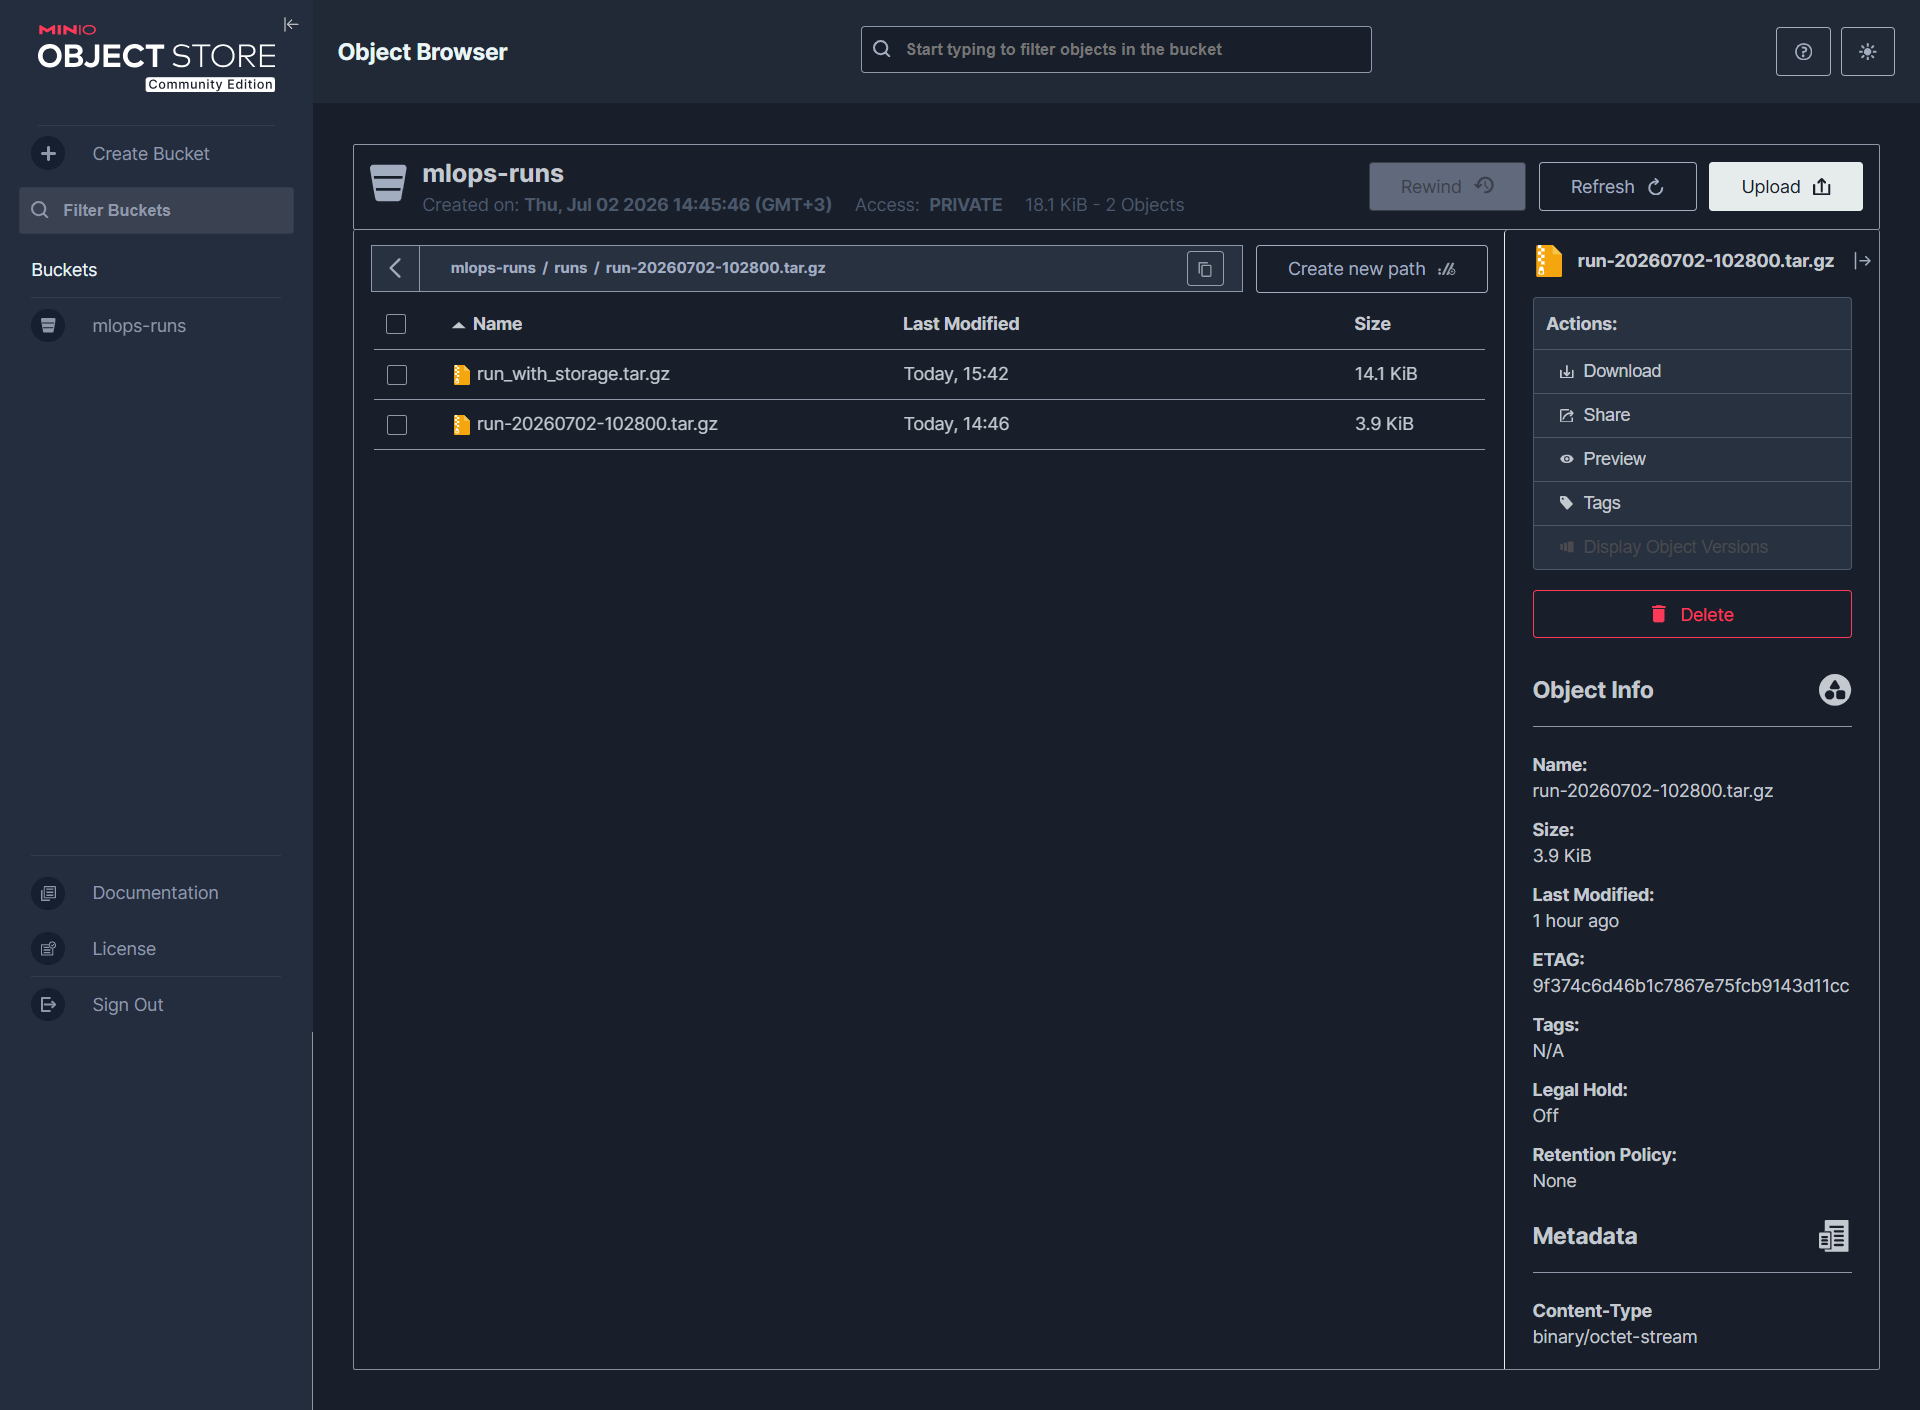
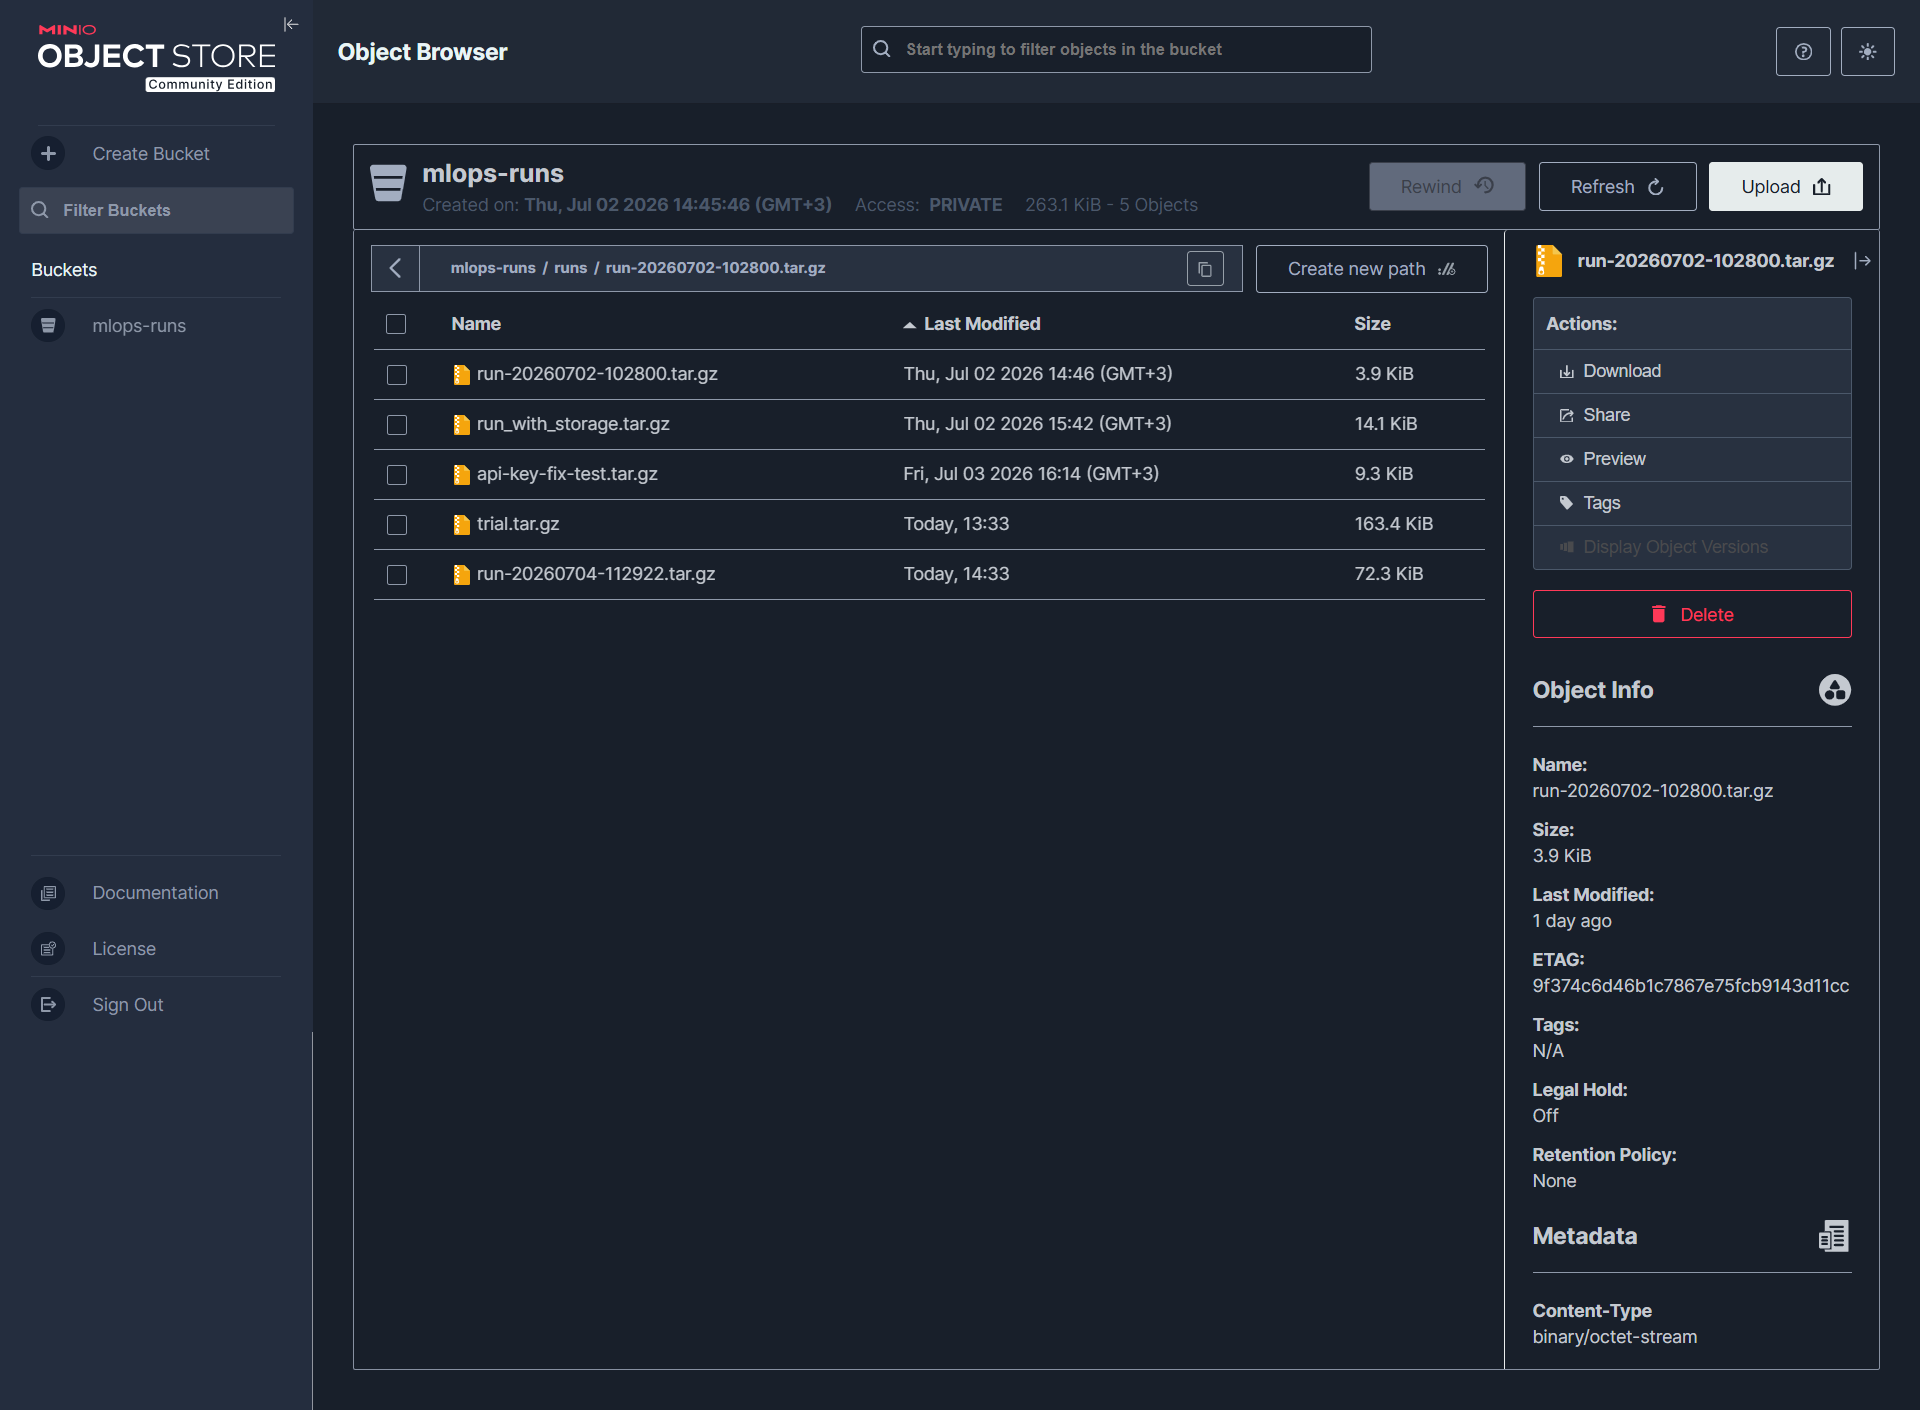
final successful run

diff --git a/REPORT.md b/REPORT.md
@@ -93,11 +93,11 @@ Screenshots: `screenshots/airflow_dag.png`, `screenshots/mlflow_runs.png`, `scre
 {
   "split": "test",
   "subset": "verified",
-  "workers": 3,
+  "workers": 1,
   "model": "nebius/moonshotai/Kimi-K2.6",
-  "task_slice": "0:3",
+  "task_slice": "0:1",
   "run_id": "auto",
-  "cost_limit": 0
+  "cost_limit": 1.0
 }
 ```
 
@@ -105,7 +105,7 @@ Screenshots: `screenshots/airflow_dag.png`, `screenshots/mlflow_runs.png`, `scre
 
 ```bash
 docker compose exec airflow-scheduler airflow dags trigger evaluate_agent \
-  --conf '{"split":"test","subset":"verified","workers":3,"task_slice":"0:3","run_id":"auto","cost_limit":0}'
+  --conf '{"split":"test","subset":"verified","workers":1,"task_slice":"0:1","run_id":"auto","cost_limit":1.0}'
 ```
 
 ### Parameters
@@ -114,13 +114,25 @@ docker compose exec airflow-scheduler airflow dags trigger evaluate_agent \
 |-------|----------|---------|-------------|
 | `split` | yes | `test` | SWE-bench split |
 | `subset` | yes | `verified` | SWE-bench subset |
-| `workers` | yes | `3` | Parallel workers for agent + eval |
+| `workers` | yes | `1` | Parallel workers for agent + eval |
 | `model` | no | `nebius/moonshotai/Kimi-K2.6` | LLM for mini-swe-agent |
-| `task_slice` | no | `0:3` | Instance slice, e.g. `0:1` or `0:3` |
+| `task_slice` | no | `0:1` | Instance slice, e.g. `0:1` or `4:5` |
 | `run_id` | no | `auto` | Run folder name; `auto` → timestamped ID |
-| `cost_limit` | no | `0` | Agent cost limit (`0` = disabled) |
+| `cost_limit` | no | `1.0` | Max agent spend in USD per run (must be > 0) |
 
 `workers` controls parallelism **inside** the agent/eval containers (not Airflow task parallelism). Use `workers` ≤ number of instances in `task_slice`.
+
+### Cost limits
+
+Agent spend is capped in three ways:
+
+1. **`agent.cost_limit`** — per-instance dollar budget passed to mini-swe-agent
+2. **`MSWEA_GLOBAL_COST_LIMIT`** — process-wide dollar cap (same value as `cost_limit`)
+3. **`MSWEA_GLOBAL_CALL_LIMIT` / `agent.step_limit`** — hard cap on API calls (~20 calls per $1)
+
+Nebius model pricing is registered in `config/litellm_model_registry.json` so LiteLLM can track real token costs. Values of `cost_limit <= 0` are rejected and fall back to `AGENT_COST_LIMIT_DEFAULT` in `.env` (default `$1.00`).
+
+For a cheap smoke run, use `task_slice: "0:1"`, `workers: 1`, and `cost_limit: 0.5`–`1.0`.
 
 ## Artifact layout
 
@@ -139,57 +151,53 @@ runs/<run-id>/
   manifest.json            # index of all important paths + remote URI
 ```
 
-`manifest.json` is the entry point for reconstructing a run. Example from completed run `run_with_storage`:
+`manifest.json` is the entry point for reconstructing a run. Example from completed run `run-20260704-112922`:
 
 ```json
 {
-  "run_id": "run_with_storage",
-  "artifact_root": ".../runs/run_with_storage",
+  "run_id": "run-20260704-112922",
+  "artifact_root": ".../runs/run-20260704-112922",
   "config": ".../config.json",
   "preds": ".../run-agent/preds.json",
   "trajectories": ".../run-agent/trajectories",
-  "trajectory_files": [".../astropy__astropy-12907.traj.json", "..."],
-  "eval_report": ".../run-eval/reports/nebius__moonshotai__Kimi-K2.6.run_with_storage.json",
+  "trajectory_files": [".../astropy__astropy-13453.traj.json"],
+  "eval_report": ".../run-eval/reports/nebius__moonshotai__Kimi-K2.6.run-20260704-112922.json",
   "eval_logs": ".../run-eval/logs",
   "metrics": ".../metrics.json",
-  "remote_artifact_uri": "s3://mlops-runs/runs/run_with_storage.tar.gz"
+  "remote_artifact_uri": "s3://mlops-runs/runs/run-20260704-112922.tar.gz"
 }
 ```
 
-Full run directories are gitignored (`runs/`). A committed example of the run metadata lives in `sample/run_manifest/` (`config.json`, `metrics.json`, `manifest.json`). A tarball for each run is uploaded to MinIO when `S3_BUCKET` is configured.
+Full run directories are gitignored (`runs/`). A committed example of run metadata lives in `sample/run_manifest/` (`config.json`, `metrics.json`, `manifest.json`). A tarball for each run is uploaded to MinIO when `S3_BUCKET` is configured.
 
 ## Completed evaluation example
 
-**Run ID:** `run_with_storage`
+**Run ID:** `run-20260704-112922` (documented in all three screenshots)
 
 | Field | Value |
 |-------|-------|
-| Config | `split=test`, `subset=verified`, `task_slice=0:3`, `workers=3` |
+| Config | `split=test`, `subset=verified`, `task_slice=4:5`, `workers=1` |
 | Model | `nebius/moonshotai/Kimi-K2.6` |
-| Instances | 3 (astropy-12907, astropy-13033, astropy-13236) |
-| Resolved | 0 / 3 |
-| Empty patches | 3 |
-| Resolve rate | 0.0 |
+| Instance | `astropy__astropy-13453` |
+| Resolved | 1 / 1 |
+| Resolve rate | 1.0 |
+| Cost limit | $0.50 |
 
-The pipeline completed end-to-end: agent trajectories were produced, SWE-bench evaluation ran, metrics were written, artifacts were uploaded to MinIO, and the run was logged in MLflow.
-
-**Note on empty patches:** The documented run `run_with_storage` produced empty patches (`resolve_rate=0.0`) because `NEBIUS_API_KEY` never reached the pipeline container. `pipeline_mounts()` checked for `.env` at the host path from inside the Airflow container (where that path is not visible), so the bind mount was skipped. This is fixed: the mount check uses `/opt/mlops-assignment/.env`, and `DockerOperator` also passes `NEBIUS_API_KEY` from `.env` explicitly.
+The pipeline completed end-to-end: the agent produced a patch, SWE-bench evaluation passed, metrics were written, artifacts were uploaded to MinIO, and the run was logged in MLflow. The Airflow grid view shows earlier failed attempts from debugging; the rightmost column is the successful run.
 
 **Remote artifact URI:**
 
 ```text
-s3://mlops-runs/runs/run_with_storage.tar.gz
+s3://mlops-runs/runs/run-20260704-112922.tar.gz
 ```
 
 Download from MinIO Console (http://localhost:9001) → bucket `mlops-runs` → prefix `runs/`, or with the AWS CLI pointed at `http://127.0.0.1:9000`.
-
-A smaller smoke run (`run-20260702-102800`, `task_slice=0:1`, `workers=1`) was also used to validate the DockerOperator path.
 
 ## MLflow tracking
 
 - **Experiment:** `evaluate_agent`
 - **UI:** http://localhost:5000
-- **Logged per run:** params (`split`, `subset`, `model`, `task_slice`, `workers`, `cost_limit`, `run_id`), metrics (`resolve_rate`, `resolved_instances`, etc.), tags (`artifact_path`, `remote_artifact_uri`)
+- **Logged per run:** params (`split`, `subset`, `model`, `task_slice`, `workers`, `cost_limit`, `call_limit`, `step_limit`, `run_id`), metrics (`resolve_rate`, `resolved_instances`, etc.), tags (`artifact_path`, `remote_artifact_uri`)
 
 From inside Docker Compose, Airflow uses `MLFLOW_TRACKING_URI=http://mlflow:5000`. From the host browser, use http://localhost:5000.
 
@@ -222,9 +230,9 @@ Trigger the DAG again with different params. A new `runs/<run-id>/` folder is cr
 If you have the local folder:
 
 ```bash
-ls runs/run_with_storage/
-cat runs/run_with_storage/manifest.json
-cat runs/run_with_storage/metrics.json
+ls runs/run-20260704-112922/
+cat runs/run-20260704-112922/manifest.json
+cat runs/run-20260704-112922/metrics.json
 ```
 
 If you only have the remote tarball:
@@ -257,6 +265,7 @@ bash scripts/docker-run-eval.sh   # inside pipeline container, or via equivalent
 |------|------|
 | `dags/evaluate_agent.py` | Main DAG |
 | `pipeline/run_steps.py` | Run helpers (config, agent, eval, metrics, upload, MLflow) |
+| `config/litellm_model_registry.json` | Nebius model pricing for cost tracking |
 | `Dockerfile` | Pipeline execution image |
 | `docker-compose.yaml` | Airflow + MLflow + MinIO + Postgres |
 | `run-docker-compose.sh` | One-command production startup |

diff --git a/README.md b/README.md
@@ -4,7 +4,9 @@
 
 **Where**: Nebius Academy course [AI Performance Engineering](https://academy.nebius.com/ai-engineering-il), MLOps module, lecture #6, "End-to-end ML pipeline".
 
-**Author**: Simon Karasik.
+**Author**: Omri Simcovich.
+
+**Submission**: Implementation details, deployment, and a completed run walkthrough are in [`REPORT.md`](REPORT.md).
 
 **Learning objective**: Get hands-on experience turning an ad-hoc coding-agent evaluation script into an automated, observable, versioned, and durable Airflow pipeline with a structured data footprint: datasets, artifacts, metadata, metrics, logs, and trajectories.
 